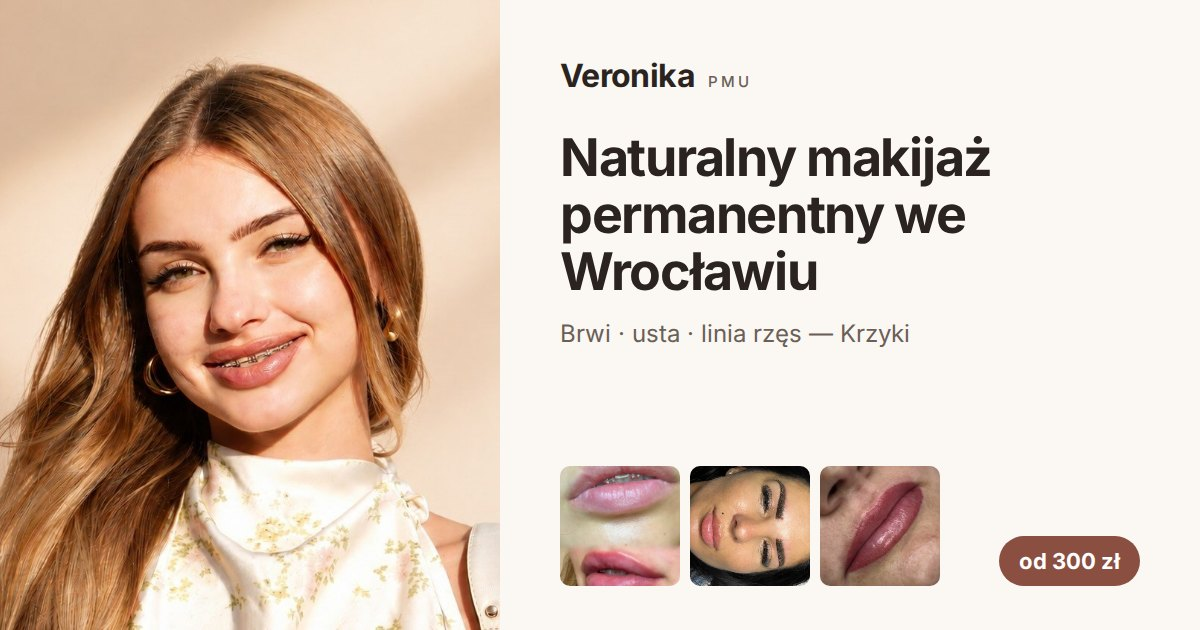
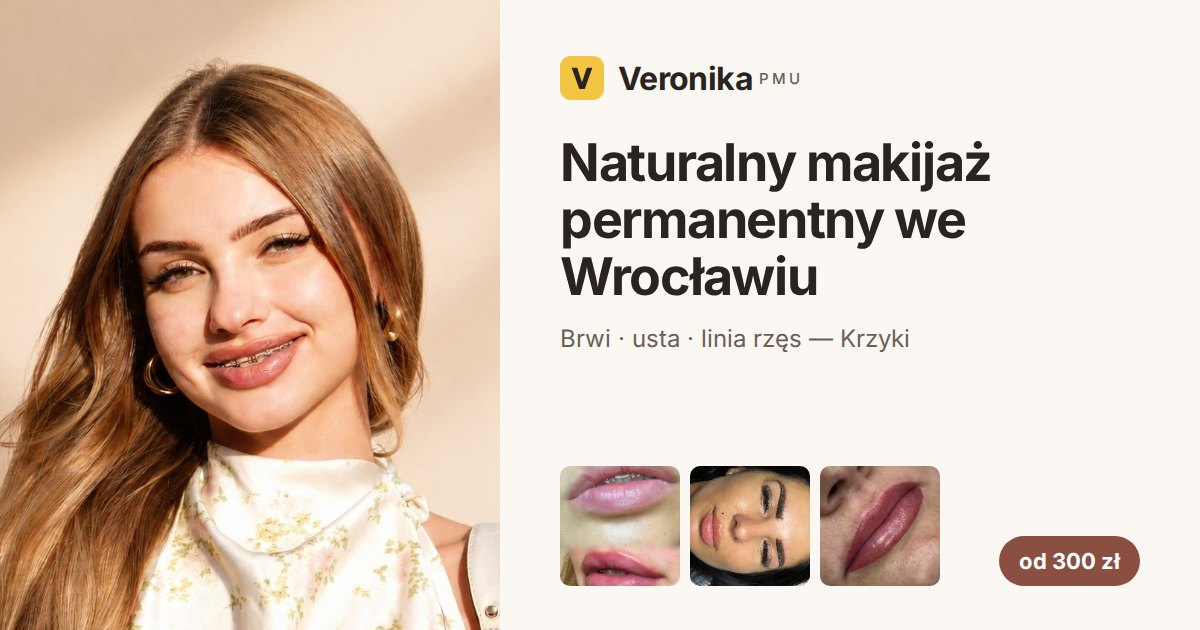
Yellow emblem and before/after video tile in the gallery
- New yellow 'V' emblem: favicon (SVG + ICO), apple-touch-icon, 192/512
  icons with a web manifest, header logo and OG images
- Gallery: the lips before/after tile plays Veronika's reel (muted loop,
  only while on screen, poster first); opens as a video in the lightbox;
  lips page keeps the photo there since its hero already shows the video
- Header fits 320 px with the emblem (PMU suffix hidden below 380 px)

Claude-Session: https://claude.ai/code/session_01STBTzgnGa38st1J2THa1F5

Changed region(s): [[0.4625, 0.2111, 0.8325, 0.4825], [0.4625, 0.5127, 0.7708, 0.573], [0.4625, 0.0905, 0.6783, 0.181]]

diff --git a/scripts/og-template.html b/scripts/og-template.html
@@ -8,7 +8,8 @@
 body { width: 1200px; height: 630px; background: #fbf8f4; color: #2a2320; font-family: Inter, system-ui, sans-serif; display: flex; overflow: hidden; }
 .photo { width: 500px; height: 630px; object-fit: cover; object-position: 50% 30%; }
 .right { flex: 1; padding: 56px 60px 44px; display: flex; flex-direction: column; }
-.brand { font-weight: 700; font-size: 32px; letter-spacing: -0.02em; }
+.mark { width: 44px; height: 44px; margin-right: 14px; }
+.brand { display: flex; align-items: center; font-weight: 700; font-size: 32px; letter-spacing: -0.02em; }
 .brand span { font-weight: 500; font-size: 15px; letter-spacing: .2em; color: #6b5f58; margin-left: 6px; }
 h1 { font-weight: 700; font-size: 52px; line-height: 1.1; letter-spacing: -0.025em; margin-top: 34px; }
 .sub { font-size: 24px; color: #6b5f58; margin-top: 18px; }
@@ -19,7 +20,7 @@ h1 { font-weight: 700; font-size: 52px; line-height: 1.1; letter-spacing: -0.025
 <body>
 <img class="photo" src="../src/assets/veronika/veronika.jpg">
 <div class="right">
-  <div class="brand">Veronika <span>PMU</span></div>
+  <div class="brand"><img class="mark" src="../public/favicon.svg" alt="">Veronika <span>PMU</span></div>
   <h1 id="title"></h1>
   <p class="sub" id="sub"></p>
   <div class="works">

diff --git a/src/config/portfolio.ts b/src/config/portfolio.ts
@@ -29,6 +29,8 @@ export interface PortfolioItem {
   alt: Record<Locale, string>;
   /** Pokaż w sekcji hero (maks. 4). */
   featured?: boolean;
+  /** Opcjonalne wideo (pliki w public/video/) — w galerii zamiast zdjęcia, zdjęcie zostaje jako kadr/OG. */
+  video?: { mp4: string; webm?: string; poster: string };
 }
 
 const img = import.meta.glob<{ default: ImageMetadata }>('../assets/portfolio/*.{jpg,jpeg,png,webp}', {
@@ -46,6 +48,7 @@ export const portfolio: PortfolioItem[] = [
     categories: ['usta'],
     stage: 'before-after',
     featured: true,
+    video: { mp4: '/video/usta-przed-po.mp4', webm: '/video/usta-przed-po.webm', poster: '/video/usta-przed-po-poster.jpg' },
     alt: {
       pl: 'Makijaż permanentny ust — porównanie przed i po zabiegu',
       uk: 'Перманентний макіяж губ — до і після процедури',
